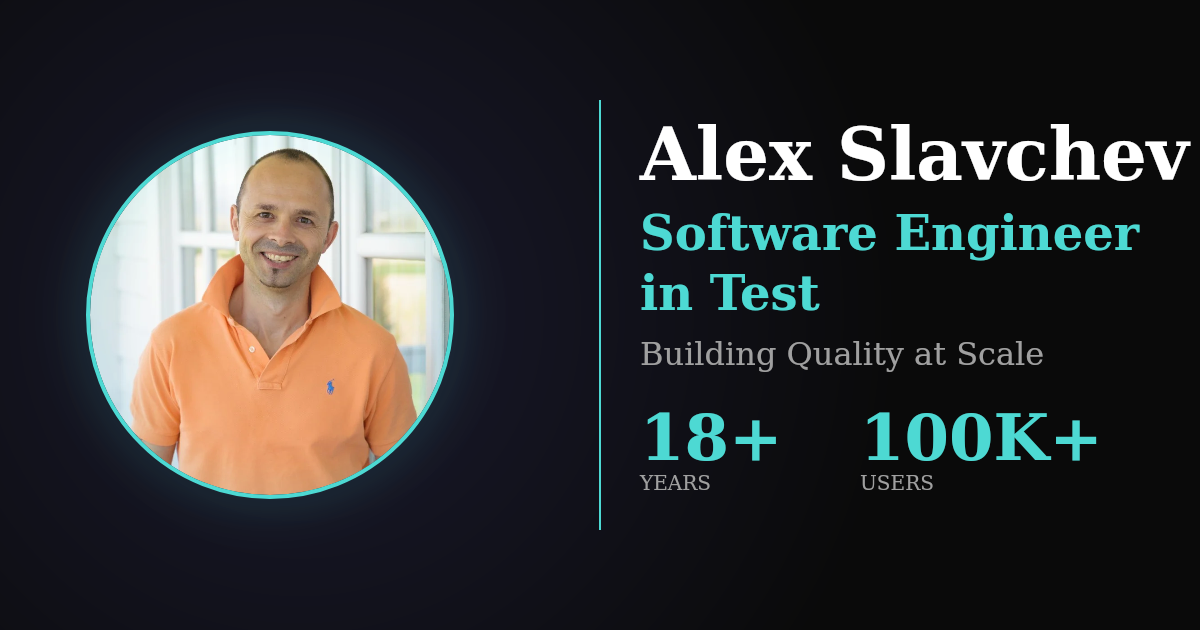
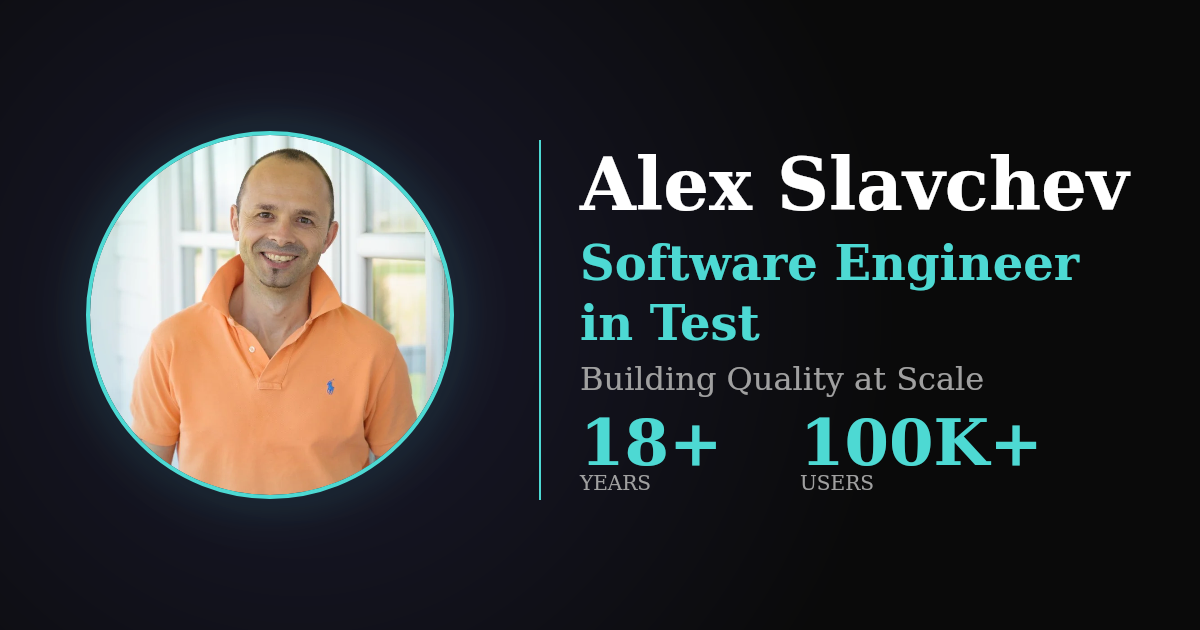
Fix OG image layout and hero text issues
OG Image fixes:
- Move vertical divider down for better visual balance
- Adjust text positioning for improved alignment
- Regenerate to remove stale v0.dev watermark

Hero section fixes:
- Remove grammatically incorrect dot after name
- Fix gradient text cutoff with improved line-height
- Add padding-bottom to prevent descender clipping

Based on marketing feedback review.

Changed region(s): [[0.4625, 0.181, 1.0, 0.7841]]

diff --git a/scripts/generate-og-image.js b/scripts/generate-og-image.js
@@ -21,12 +21,12 @@ async function generateOGImage() {
   ctx.fillStyle = gradient;
   ctx.fillRect(0, 0, width, height);
 
-  // Vertical line separator
+  // Vertical line separator - positioned to align with profile photo
   ctx.strokeStyle = tealColor;
   ctx.lineWidth = 2;
   ctx.beginPath();
-  ctx.moveTo(600, 100);
-  ctx.lineTo(600, 530);
+  ctx.moveTo(540, 140);
+  ctx.lineTo(540, 500);
   ctx.stroke();
 
   // Load and draw profile image
@@ -58,30 +58,30 @@ async function generateOGImage() {
     console.error('⚠ Could not load profile image:', error.message);
   }
 
-  // Text content - right side
-  const startX = 640;
+  // Text content - right side with proper margin from divider
+  const startX = 580;
 
   // Name - white
   ctx.fillStyle = whiteColor;
   ctx.font = 'bold 72px Arial, sans-serif';
-  ctx.fillText('Alex Slavchev', startX, 180);
+  ctx.fillText('Alex Slavchev', startX, 210);
 
   // Title - TEAL (not purple!) - no "Senior", 18+ years speaks for itself
   ctx.fillStyle = tealColor;
   ctx.font = 'bold 48px Arial, sans-serif';
-  ctx.fillText('Software Engineer', startX, 250);
-  ctx.fillText('in Test', startX, 310);
+  ctx.fillText('Software Engineer', startX, 280);
+  ctx.fillText('in Test', startX, 340);
 
   // Subtitle - gray
   ctx.fillStyle = grayColor;
   ctx.font = '32px Arial, sans-serif';
-  ctx.fillText('Building Quality at Scale', startX, 365);
+  ctx.fillText('Building Quality at Scale', startX, 390);
 
   // Stats - TEAL
   ctx.fillStyle = tealColor;
   ctx.font = 'bold 64px Arial, sans-serif';
-  ctx.fillText('18+', startX, 460);
-  ctx.fillText('100K+', startX + 220, 460);
+  ctx.fillText('18+', startX, 465);
+  ctx.fillText('100K+', startX + 220, 465);
 
   // Stats labels - gray
   ctx.fillStyle = grayColor;

diff --git a/components/sections/hero-section.tsx b/components/sections/hero-section.tsx
@@ -45,12 +45,11 @@ export function HeroSection() {
 
           {/* Main heading - refined hierarchy */}
           <div className="space-y-6">
-            <h1 className="text-4xl sm:text-5xl md:text-6xl lg:text-7xl font-bold text-balance leading-tight">
+            <h1 className="text-4xl sm:text-5xl md:text-6xl lg:text-7xl font-bold text-balance leading-[1.15] pb-1">
               {content.hero.greeting}{" "}
               <span className="bg-gradient-to-r from-primary via-primary to-accent bg-clip-text text-transparent">
                 {personalInfo.name}
               </span>
-              .
             </h1>
 
             <p className="text-xl sm:text-2xl md:text-3xl lg:text-4xl text-foreground/80 text-balance font-medium tracking-tight leading-snug">
